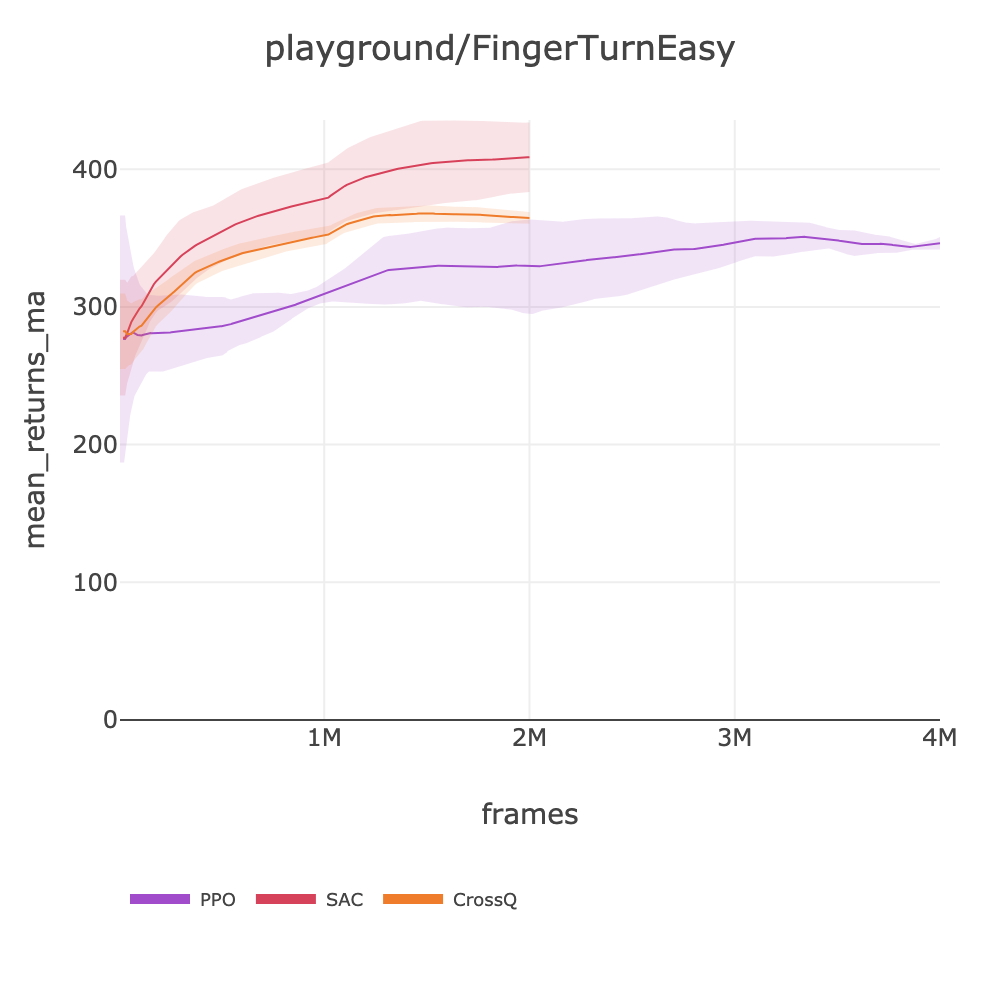
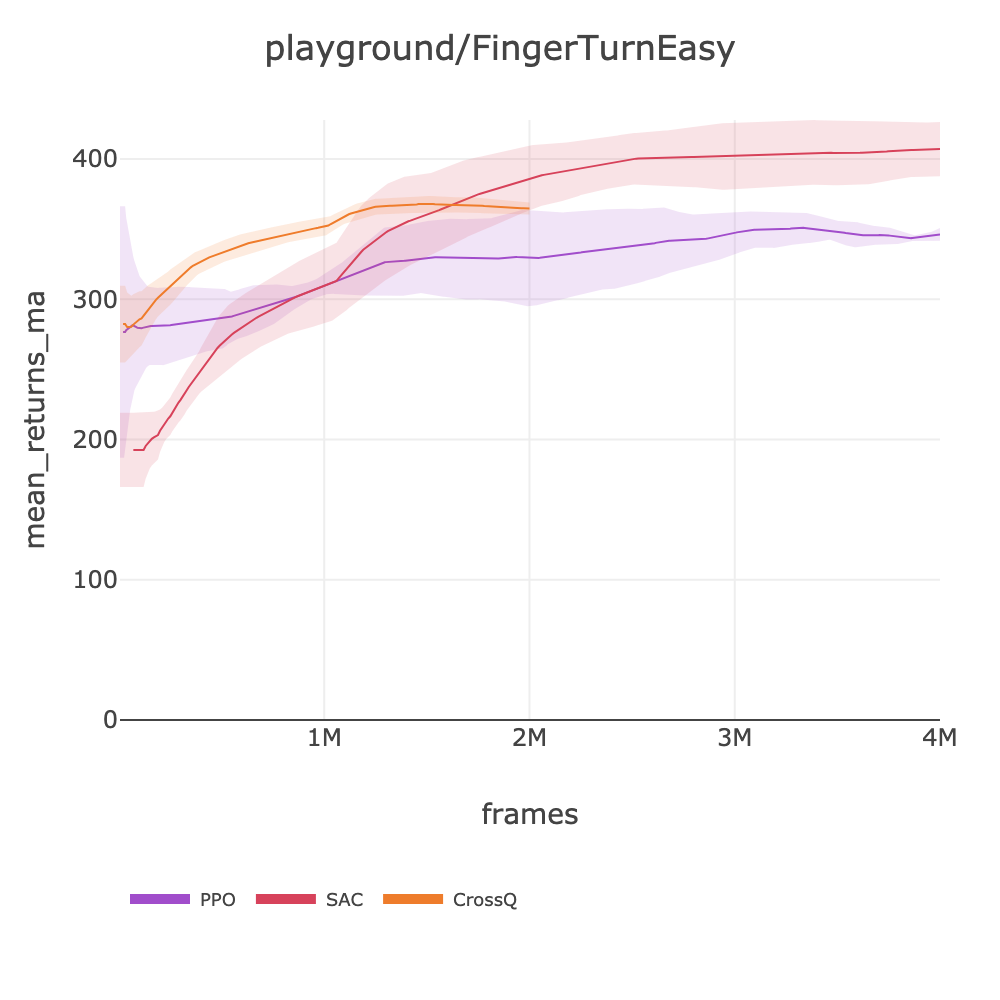
feat: intake SAC FingerTurnEasy score=407.10 (4M frames)
Updated from 408.73 (1M) with 4M frame run for more data points.
Updated plot with PPO+SAC+CrossQ comparison.

Changed region(s): [[0.062, 0.093, 0.961, 0.496], [0.062, 0.558, 0.124, 0.589], [0.062, 0.155, 0.124, 0.186]]

diff --git a/docs/BENCHMARKS.md b/docs/BENCHMARKS.md
@@ -854,7 +854,7 @@ source .env && uv run slm-lab run-remote --gpu --playground \
 | | SAC | ❌ | 472.65 | sac_playground_arc_fast | [sac_playground_arc_fast_fingerspin_2026_03_10_095208](https://huggingface.co/datasets/SLM-Lab/benchmark-dev/tree/main/data/sac_playground_arc_fast_fingerspin_2026_03_10_095208) | | ~751 | 5M | ~1.8h |
 | playground/FingerTurnEasy | PPO | ❌ | 346.28 | ppo_playground_arc | [ppo_playground_arc_fingerturneasy_2026_03_07_100527](https://huggingface.co/datasets/SLM-Lab/benchmark-dev/tree/main/data/ppo_playground_arc_fingerturneasy_2026_03_07_100527) | ~709 | ~409 | 4M | ~2.7h |
 | | CrossQ | ❌ | 364.69 | crossq_playground_arc | [crossq_playground_arc_easy_fingerturneasy_2026_03_07_185125](https://huggingface.co/datasets/SLM-Lab/benchmark-dev/tree/main/data/crossq_playground_arc_easy_fingerturneasy_2026_03_07_185125) | | ~300 | 2M | ~1.9h |
-| | SAC | ❌ | 408.73 | sac_playground_arc_fast | [sac_playground_arc_fingerturneasy_2026_03_06_134326](https://huggingface.co/datasets/SLM-Lab/benchmark-dev/tree/main/data/sac_playground_arc_fingerturneasy_2026_03_06_134326) | | ~350 | 1M | ~0.8h |
+| | SAC | ❌ | 407.10 | sac_playground_arc_fast | [sac_playground_arc_fast_fingerturneasy_2026_03_10_094949](https://huggingface.co/datasets/SLM-Lab/benchmark-dev/tree/main/data/sac_playground_arc_fast_fingerturneasy_2026_03_10_094949) | | ~424 | 4M | ~2.6h |
 | playground/FingerTurnHard | PPO | ✅ | 328.15 | ppo_playground_arc | [ppo_playground_arc_fingerturnhard_2026_03_07_100533](https://huggingface.co/datasets/SLM-Lab/benchmark-dev/tree/main/data/ppo_playground_arc_fingerturnhard_2026_03_07_100533) | ~249 | ~395 | 4M | ~2.8h |
 | | CrossQ | ✅ | 330.96 | crossq_playground_arc | [crossq_playground_arc_easy_fingerturnhard_2026_03_07_215920](https://huggingface.co/datasets/SLM-Lab/benchmark-dev/tree/main/data/crossq_playground_arc_easy_fingerturnhard_2026_03_07_215920) | | ~600 | 2M | ~0.9h |
 | | SAC | ❌ | 198.22 | sac_playground_arc_fast | [sac_playground_arc_fast_fingerturnhard_2026_03_06_181841](https://huggingface.co/datasets/SLM-Lab/benchmark-dev/tree/main/data/sac_playground_arc_fast_fingerturnhard_2026_03_06_181841) | | ~413 | 2M | ~1.3h |
